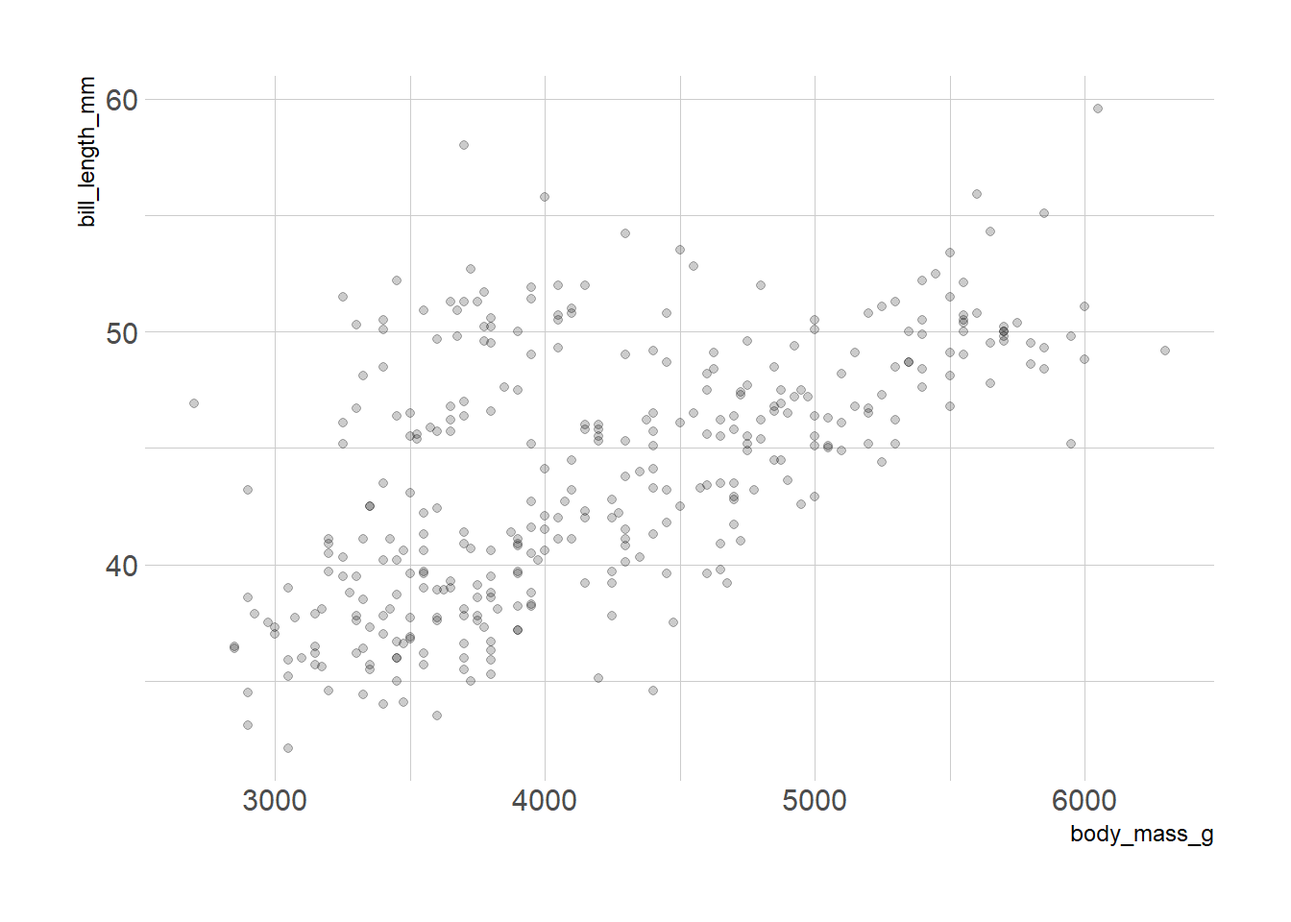
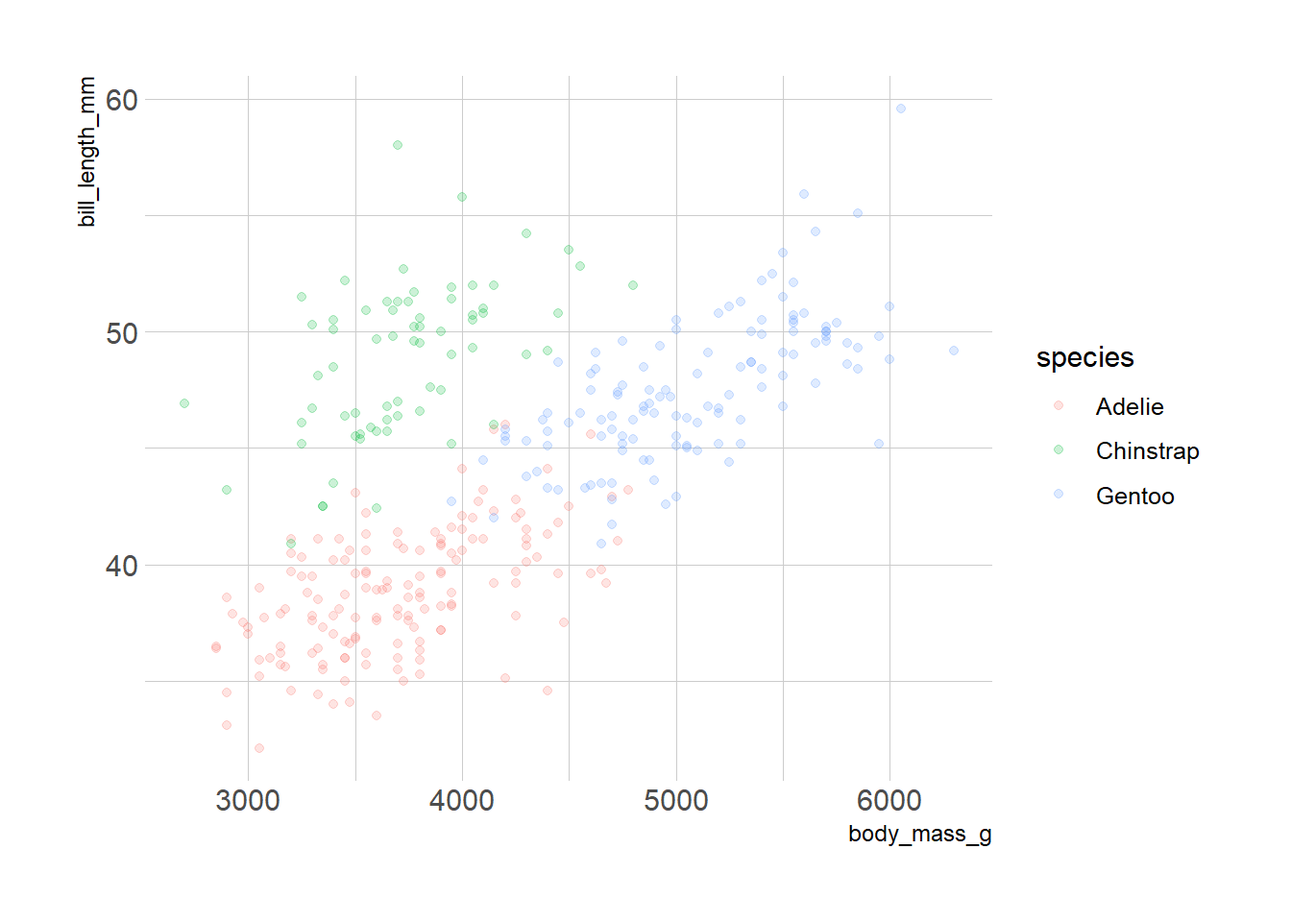
Tuesday edits for continuity, add time series fred

diff --git a/content/post/EDA/index.html b/content/post/EDA/index.html
@@ -1,11 +1,8 @@
 ---
 date: "2021-01-29"
 diagram: true
-# Featured image
-# To use, add an image named `featured.jpg/png` to your page's folder.
-# Focal points: Smart, Center, TopLeft, Top, TopRight, Left, Right, BottomLeft, Bottom, BottomRight.
 image: 
-  caption: ''
+  caption: 'by Allison Horst'
   focal_point: "TopRight"
   preview_only: false
 title: 'Exploratory Data Analysis'
@@ -22,13 +19,13 @@ draft: false
 <script src="{{< blogdown/postref >}}index_files/header-attrs/header-attrs.js"></script>
 
 
-<p>In many cases, the most beneficial near-term analytics projects do not involve Artificial Intelligence. The financial return on analytics comes from insights delivered back to the organization through Exploratory Data Analysis, or EDA.</p>
-<p>Professionals who focus on decision science and analytics, that is, people that use data to provide ideas and ground truth to the business, must be able to articulate what the EDA process is and what the standards are for the process. Analysts should be the best people available to find meaning in the data.</p>
-<p>Crafting an analysis that can take a vast amount of privileged company data and convert it into a concise result that clarifies the matter at hand is often difficult and may be practically an art. The act of figuring out what is meaningfully mathematically, what the business cares about, and how to bridge the gap between the two is not something that most people will know how to do naturally.</p>
-<p>This post will be a description of the major elements of Exploratory Data Analysis.</p>
+<p>More often than not, the most beneficial near-term analytics projects do not involve any Artificial Intelligence. The tangible financial return on analytics comes from insights delivered back to the organization via Exploratory Data Analysis, or EDA.</p>
+<p>Analytics professionals who focus on decision science, that is, people that use data to provide ground truth to the business, must be able to articulate what the EDA process is and what the standards are for the process. Analysts should be the best people available to find meaning in the data.</p>
+<p>Crafting an analysis that takes a vast amount of privileged company data and converts it into a concise result could be considered an art. The act of figuring out what is meaningful mathematically, what the business cares about, and how to bridge the gap between the two is not something that most people will know how to do naturally.</p>
+<p>This post will be a short outline of the major elements of Exploratory Data Analysis. I welcome your feedback, and especially from those that have extraordinary analysts on their teams.</p>
 <div id="what-makes-a-good-analysis" class="section level1">
 <h1>What makes a good analysis?</h1>
-<p>According to <a href="https://www.manning.com/books/build-a-career-in-data-science">Build a Career in Data Science</a>:</p>
+<p>According to the 2020 book <a href="https://www.manning.com/books/build-a-career-in-data-science">Build a Career in Data Science</a>:</p>
 <ul>
 <li><p><em>It answers the question</em>. An analysis starts with someone asking a question, and it must provide an answer to that question.</p></li>
 <li><p><em>It is made quickly</em>. Businesses have deadlines. If the analysis takes too long to create, the decision will be made without the analysis.</p></li>
@@ -39,18 +36,18 @@ draft: false
 <p>Ultimately, a good analysis is simply the work product that helps non-analysts do their own jobs.</p>
 <div id="the-analysis-plan" class="section level2">
 <h2>The analysis plan</h2>
-<p>Knowing whether the data that could plausibly answer the question is available is <em>really</em> important. An analysis plan should consist of actionable tasks that drill down into the dimensions of the business question and how they should be addressed. It should be shared with the team manager and the client to secure an agreed-upon foundation for the work. For example, importing and cleaning data will require files and security access be made available.</p>
-<p>So, where can data-driven analytics fail?</p>
+<p>Knowing whether the data that could plausibly answer the question is available is <em>really</em> important. An analysis plan should consist of actionable tasks that drill down into the dimensions of the business question and how they should be addressed. It should be shared with both the team manager and the client to secure an agreed-upon foundation for the work. For example, importing and cleaning data will require that files and security access be made available. Given the size and the nature of the dataset, cloud resources may need to be provisioned.</p>
+<p>Where can data-driven analytics plan fail?</p>
 <blockquote>
 <p>By far, the most common mistake is to solve the problems that nobody has.</p>
 </blockquote>
-<p>Every EDA plan first steps through identifying potential issues that require remedial work before moving forward. This could be characterized as data cleaning or data checking. The pattern, then:</p>
+<p>Every EDA plan steps through identifying potential issues that require remedial work before moving forward. This could be characterized as data cleaning or data checking. Generally speaking, the pattern here is:</p>
 <ol style="list-style-type: decimal">
 <li><p>Generate questions about the data.</p></li>
 <li><p>Search for answers by visualizing, transforming, and modeling the data.</p></li>
 <li><p>Use what is learned to refine the questions and generate new questions.</p></li>
 </ol>
-<p>Bear in mind that EDA is not a single linear process with a strict set of rules. During the initial phases of EDA every idea will be investigated. Some of these ideas will pan out, and most will be dead ends. As exploration continues, the analyst will discover a few particularly productive areas to write up and communicate.</p>
+<p>Bear in mind that EDA is never a single linear process with a strict set of rules. During the initial phases of EDA every idea will be investigated. Some of these ideas will pan out, and most will be dead ends. As exploration continues, the analyst will discover a few particularly productive areas to write up and communicate.</p>
 <blockquote>
 <p>“Far better an approximate answer to the right question, which is often
 vague, than an exact answer to the wrong question, which can always be made
@@ -62,25 +59,32 @@ precise.” — John Tukey</p>
 <blockquote>
 <p>This was the tendency of jobs to be adapted to tools, rather than adapting tools to jobs. <a href="https://en.wikipedia.org/wiki/Silvan_Tomkins">Silvan Tomkins</a>, Computer Simulation of Personality: Frontier of Psychological Theory (1963)</p>
 </blockquote>
-<p>In both Python and R, data analysis tooling has coalesced around the <strong>data frame</strong> object, which is a huge productivity boost for the analyst. There is a risk here that EDA, because of the ease and uniformity of use of the tooling, becomes an exercise in applying boilerplate code. This creates a creativity trap where the analysis can become narrowed by the range of uses supported by a particular set of tools. While the dashboard tools are powerful when they are genuinely supporting the analyst to develop understanding of the data narrative, it’s important to avoid becoming too reliant on any single template.</p>
-<p>In my experience it’s good to have familiarity with tooling at several levels of abstraction. High level interfaces to auto-generate certain types of exploratory analysis are handy when they provide just what is needed. However, the majority of EDA is more creative in nature and becoming expert with data manipulation tools like dplyr and pandas in combination with graphical tools like matplotlib and ggplot2 provides a finer control and fewer restrictions on creativity.</p>
+<p>Data analysis tooling has coalesced around the <strong>data frame</strong> object, which is a huge productivity boost for the analyst. In some settings we talk about self-service, or even “citizen” data scientists that have access to the prepared data frame structures. There is a risk here that EDA, because of the ease and uniformity of use of the tooling, becomes an exercise in applying boilerplate code. This creates a creativity trap where the analysis can be constrained by the range of uses supported by a particular set of tools. While reporting tools are powerful when they genuinely support the analyst in developing an understanding of the data narrative, it’s important to avoid becoming too reliant on any single tool.</p>
+<p>In my experience it’s good to have familiarity with tooling at several levels of abstraction, whether python or R, Tableau or PowerBI. High level interfaces to auto-generate certain types of exploratory analysis are handy when they provide just what is needed. However, the majority of EDA is more creative in nature and becoming expert with data manipulation tools like dplyr and pandas in combination with graphical tools like matplotlib and ggplot2 provides a finer control and fewer restrictions on creativity.</p>
 <p>The main point here is that exploratory data analysis can’t and shouldn’t be automated, because it is a process to support a human’s learning, and to do that well there are few shortcuts.</p>
 <hr />
-<p>At this point, all of the technical tools of EDA will be needed: visualization, transformation, and modeling. For the purposes of a the blog post, we will organize the activities under five themes:</p>
+<p>At this point, all of the technical tools of EDA will be needed: visualization, transformation, and modeling. For the purposes of a the blog post, we will organize activities under five themes:</p>
 <ul>
 <li><p>Feature names and field types</p></li>
 <li><p>Missingness</p></li>
 <li><p>Variance and covariance</p></li>
 <li><p>Patterns and modeling feature inferences</p></li>
 </ul>
-<p>For illustrative purposes, let’s load a few libraries with plotting functions and sample penguin data.</p>
+<p>For illustrative purposes, let’s load a few libraries with plotting functions and a sample penguin dataset.</p>
+<pre class="r"><code>suppressPackageStartupMessages({
+library(tidyverse) # tidy data manipulation, including dplyr and ggplot
+library(systemfonts) # register Windows Fonts
+library(palmerpenguins) # penguin sample dataset
+})
+
+theme_set(hrbrthemes::theme_ipsum())   # Set a ggplot color, font theme</code></pre>
 </div>
 <div id="feature-names-and-field-types" class="section level3">
 <h3>Feature names and field types</h3>
-<p>I am often handed sample data in Excel or a .csv text file at the first engagement of a project. In my experience, always, always check for the correctness of the column types. Expect to find integers incorrectly encoded as strings, dates encoded as strings, timestamps in odd time zones and other issues. Sometimes a column that should be numeric has the occasional string entry. Perhaps the query did not specify the correct schema when reading the database, or the data are encoded in an ambiguous way that results in an inappropriate type, or maybe some earlier data manipulation caused a problem.</p>
+<p>Analysts are often handed sample data in Excel or a .csv text file at the first engagement of a project. In my experience, always, always check for the correctness of the column types. Expect to find integers incorrectly coded as strings, dates coded as strings, timestamps in odd time zones, non-English character sets, and other issues. Sometimes a column that should be numeric has the occasional string entry. Perhaps the query did not specify the correct schema when reading the database, or the data are encoded in an ambiguous way that results in an inappropriate type, or maybe some earlier data manipulation caused a problem.</p>
 <p>Before going further, let’s define some terms:</p>
 <ul>
-<li><p>A <strong>variable</strong> is a quantity, quality, or property that you can measure. Often shown in columns, these are also known as features.</p></li>
+<li><p>A <strong>variable</strong> is a quantity, quality, or property that you can measure. Often shown in columns, these are also known in data science as features.</p></li>
 <li><p>A <strong>value</strong> is the state of a variable when you measure it. The value of a variable may change from measurement to measurement.</p></li>
 <li><p>An <strong>observation</strong> is a set of measurements made under similar conditions. You usually make all of the measurements in an observation at the same time and on the same object. An observation will contain several values, each associated with a different variable. We sometimes refer to an observation as an instance.</p></li>
 <li><p><strong>Tabular data</strong> is a set of values, each associated with a variable and an observation. Tabular data is <em>tidy</em> if each value is placed in its own “cell”, each variable in its own column, and each observation in its own row.</p></li>
@@ -88,7 +92,8 @@ precise.” — John Tukey</p>
 <li><p><strong>Sparsity and Density</strong> describe the degree to which data exists for the features in a dataset. For example, if 20 percent of the values in a dataset are missing, the dataset is said to be 20 percent sparse. Density is the complement of sparsity.</p></li>
 <li><p><strong>Resolution</strong> describes the grain or level of detail in the data. The more detailed the data, the finer (or higher) the resolution. Satellite imagery consists of pixels on a grid spaced at some 3 meters or so on the ground. Aerial imagery is has somewhat higher resolution.</p></li>
 </ul>
-<p>Descriptive statistics are useful in data exploration and understanding. They involve the use of measures to describe the characteristics of features. For example, categorical features are described in the frequencies, or counts, of their occurance in the dataset. For continuous data, measures like mean and median are used.</p>
+<p>Descriptive statistics are useful in data exploration and understanding. They involve the use of measures to describe some of the characteristics of features. For example, categorical features are described in the frequencies, or counts, of their occurrence in the dataset. For continuous data, summary measures like mean and median are often useful.</p>
+<p>For the penguins dataset:</p>
 <pre class="r"><code>summary(penguins)</code></pre>
 <pre><code>##       species          island    bill_length_mm bill_depth_mm  flipper_length_mm
 ##  Adelie   :152   Biscoe   :168   Min.   :32.1   Min.   :13.1   Min.   :172      
@@ -109,21 +114,19 @@ precise.” — John Tukey</p>
 </div>
 <div id="missingness" class="section level3">
 <h3>Missingness</h3>
-<p>We must check the prevalence of missing values and their relationship with other features because many modeling methods do not handle missing values natively. There is a story about a marine mammal weights dataset where the missing values are those that exceeded the capacity of the scale. Remedies here might include dropping or transforming columns, imputing missing values as the median, or choosing an algorithm that handles missingness out of the box. As a worse case, it may be necessary to solicit more data.</p>
-<p>If you’ve encountered missing values in the dataset and simply want to move on to the rest of the analysis, there are two options.</p>
+<p>We must check the prevalence of missing values and their relationship with other features. There is a story about a marine mammal weights dataset where the missing values are those whales that exceeded the capacity of the scale. Remedies here might include dropping or transforming columns, imputing missing values as the median, or choosing an algorithm that handles missingness out of the box. As a worse case, it may be necessary to solicit more data.</p>
+<p>If you’ve encountered missing values in the dataset and want to quickly move on to the rest of the analysis, there are two options.</p>
 <ol style="list-style-type: decimal">
-<li>Drop the entire row with the missing values:</li>
-</ol>
+<li><p>Drop the entire row that has the missing values:</p>
 <pre class="r"><code>penguins2 &lt;- penguins %&gt;% 
-      filter(is.na(bill_length_mm))</code></pre>
-<ol style="list-style-type: decimal">
-<li>Replacing the missing values with an imputed value, like the median.</li>
-</ol>
+    filter(is.na(bill_length_mm))</code></pre></li>
+<li><p>Replace the missing values with an imputed value, like the median of the variable.</p>
 <pre class="r"><code>median_bill_length &lt;- median(penguins$bill_length_mm)
 
 penguins2 &lt;- penguins %&gt;% 
-      mutate(y = if_else(is.na(bill_length_mm), median_bill_length, bill_length_mm))</code></pre>
-<p>We should make every effort to understand what makes observations with missing values different to observations with recorded values. For example, in <code>nycflights13::flights</code>, missing values in the <code>dep_time</code> variable indicate that the flight was cancelled. It is important to compare the scheduled departure times for cancelled and non-cancelled times. You can do this by making a new variable with <code>is.na()</code>.</p>
+    mutate(bill_length_mm = if_else(is.na(bill_length_mm), median_bill_length, bill_length_mm))</code></pre></li>
+</ol>
+<p>We should make every effort to understand what makes observations with missing values different versus observations with recorded values. For example, in the sample dataset <code>nycflights13::flights</code>, missing values in the <code>dep_time</code> variable indicate that the flight was cancelled. It is important to compare the scheduled departure times for cancelled and non-cancelled times.</p>
 <pre class="r"><code>nycflights13::flights %&gt;% 
   mutate(
     cancelled = is.na(dep_time),
@@ -134,16 +137,16 @@ penguins2 &lt;- penguins %&gt;%
   ggplot(mapping = aes(sched_dep_time)) + 
     geom_freqpoly(mapping = aes(colour = cancelled), binwidth = 1/4)</code></pre>
 <p><img src="{{< blogdown/postref >}}index_files/figure-html/unnamed-chunk-4-1.png" width="672" /></p>
-<p>Note that this plot really is not great because there are many more non-canceled flights than canceled flights.</p>
+<p>This example is also a good example of an unbalanced dataset, where the class of a variable of interest may be overwhelmed by the other classes. There are analytics techniques for synthesizing upsampling, or resampling, to prepare the data to better understand the underlying patterns.</p>
 </div>
 <div id="variance-and-covariance" class="section level3">
 <h3>Variance and covariance</h3>
 <p><strong>Variation</strong> is the tendency of the values of a single variable to change from measurement to measurement. Variation is easily observed in real life; if you measure any continuous variable twice, you will get two different results. This is true even when measuring quantities that are constant, like the speed of light. Each measurement will include a small amount of error that varies from measurement to measurement. Every variable has its own pattern of variation. The best way to understand that pattern is to visualize the distribution of the variable’s values.</p>
-<p>The means of visualizing the distribution of a variable will depend on whether the variable is categorical or continuous. A variable is <strong>categorical</strong> if it can only take one of a small set of values. Categorical variables are usually saved as factors or character vectors. To examine the distribution of counts of a categorical variable, use a bar chart:</p>
+<p>The means of visualizing the distribution of a variable will depend on whether the variable is categorical or continuous. A variable is <strong>categorical</strong> if it can only take one of a small set of values. To examine the distribution of counts of a categorical variable, use a bar chart:</p>
 <pre class="r"><code>ggplot(data = penguins) +
   geom_bar(mapping = aes(x = island))</code></pre>
 <p><img src="{{< blogdown/postref >}}index_files/figure-html/unnamed-chunk-5-1.png" width="672" /></p>
-<p>The height of the bars displays how many observations occurred with each x value. A table that shows the same information:</p>
+<p>The height of the bars displays how many observations occurred with each value. A table that diplays the same information:</p>
 <pre class="r"><code>penguins %&gt;% 
   count(island)</code></pre>
 <pre><code>## # A tibble: 3 x 2
@@ -186,7 +189,7 @@ penguins2 &lt;- penguins %&gt;%
 ggplot(data = smaller, mapping = aes(x = bill_length_mm)) +
   geom_histogram(binwidth = 0.1)</code></pre>
 <p><img src="{{< blogdown/postref >}}index_files/figure-html/unnamed-chunk-9-1.png" width="672" /></p>
-<p>If you wish to overlay multiple histograms in the same plot, we can use <code>geom_freqpoly()</code> instead of <code>geom_histogram()</code>. <code>geom_freqpoly()</code> performs the same calculation as <code>geom_histogram()</code>, but instead of displaying the counts with bars, is uses lines instead. It’s much easier to understand overlapping lines than bars.</p>
+<p>If you wish to overlay multiple histograms in the same plot, we can use <code>geom_freqpoly()</code> instead of <code>geom_histogram()</code>. <code>geom_freqpoly()</code> performs the same calculation as <code>geom_histogram()</code>, but instead of displaying the counts with bars, it uses lines instead. It’s often easier to understand overlapping lines than bars.</p>
 <pre class="r"><code>ggplot(data = penguins, mapping = aes(x = bill_length_mm, colour = species)) +
   geom_freqpoly(binwidth = 2)</code></pre>
 <p><img src="{{< blogdown/postref >}}index_files/figure-html/unnamed-chunk-10-1.png" width="672" /></p>
@@ -217,30 +220,35 @@ ggplot(data = smaller, mapping = aes(x = bill_length_mm)) +
 <p>If variation describes the behavior <em>within</em> a variable, covariation describes the behavior <em>between</em> variables. <strong>Covariation</strong> is the tendency for the values of two or more variables to vary together in a related way. The best way to spot covariation is to visualise the relationship between two or more variables. How you do that should again depend on the type of variables involved.</p>
 <p>It’s common to want to explore the distribution of a continuous variable broken down by a categorical variable, as in the previous frequency polygon. The default appearance of <code>geom_freqpoly()</code> is not that useful for that sort of comparison because the height is given by the count. To make the comparison easier we need to swap what is displayed on the y-axis. Instead of displaying count, we’ll display <strong>density</strong>, which is the count standardised so that the area under each frequency polygon is one.</p>
 <pre class="r"><code>ggplot(data = penguins, mapping = aes(x = body_mass_g, y = ..density..)) + 
-  geom_freqpoly(mapping = aes(colour = species), binwidth = 50)</code></pre>
+  geom_freqpoly(mapping = aes(colour = species), binwidth = 100)</code></pre>
 <p><img src="{{< blogdown/postref >}}index_files/figure-html/unnamed-chunk-13-1.png" width="672" /></p>
-<p>Frequency polygons are a little hard to interpret - there’s a lot going on in this plot.</p>
-<p>Another alternative to display the distribution of a continuous variable broken down by a categorical variable is the boxplot. A <strong>boxplot</strong> is a type of visual shorthand for a distribution of values that is popular among statisticians. Each boxplot consists of:</p>
+<p>Frequency polygons are a little hard to interpret. There’s a lot going on in this plot.</p>
+<p>An alternative: a <strong>boxplot</strong> is a type of visual shorthand for a distribution of values that is popular among statisticians. Each boxplot consists of:</p>
 <ul>
 <li><p>A box that stretches from the 25th percentile of the distribution to the 75th percentile, a distance known as the interquartile range (IQR). In the middle of the box is a line that displays the median, i.e. 50th percentile.</p></li>
 <li><p>Visual points that display observations that fall more than 1.5 times the IQR from either edge of the box. These outlying points are unusual so are plotted individually.</p></li>
 <li><p>A line (or whisker) that extends from each end of the box and goes to the farthest non-outlier point in the distribution.</p></li>
 </ul>
-<p>Let’s take a look at the distribution of price by cut using <code>geom_boxplot()</code>:</p>
+<p>Let’s take a look at the distribution of body mass by species using <code>geom_boxplot()</code>:</p>
 <pre class="r"><code>ggplot(data = penguins, mapping = aes(x = species, y = body_mass_g       )) +
   geom_boxplot()</code></pre>
 <p><img src="{{< blogdown/postref >}}index_files/figure-html/unnamed-chunk-14-1.png" width="672" /></p>
-<p>We see much less information about the distribution, but the boxplots are much more compact so we can more easily compare them (and fit more on one plot).</p>
-<p>If you have long variable names, <code>geom_boxplot()</code> will work better if flipped by 90°.</p>
-<pre class="r"><code>ggplot(data = penguins) +
-  geom_boxplot(mapping = aes(y = reorder(species, body_mass_g, FUN = median), x = body_mass_g)) </code></pre>
+<p>We see less information about the distribution, but the boxplots are much more compact so we can more easily compare them (and fit more on one plot).</p>
+<p>If you have long variable names, <code>geom_boxplot()</code> will work better if flipped by 90°. In this case, we will add the original data points, with “jitter”, and color for each species.</p>
+<pre class="r"><code>ggplot(data = penguins, 
+       mapping = aes(y = reorder(species, body_mass_g, FUN = median), 
+                     x = body_mass_g,
+                     color = species)) +
+  geom_boxplot(show.legend = FALSE) +
+  geom_point(alpha = 0.2, position = &quot;jitter&quot;, show.legend = FALSE) +
+  labs(y = NULL)</code></pre>
 <p><img src="{{< blogdown/postref >}}index_files/figure-html/unnamed-chunk-15-1.png" width="672" /></p>
-<p>To visualise the covariation between categorical variables, we will need to count the number of observations for each combination. One way to do that is to rely on the built-in <code>geom_count()</code>:</p>
+<p>To visualize the covariation between categorical variables, we will need to count the number of observations for each combination. One way to do that is to use <code>geom_count()</code>:</p>
 <pre class="r"><code>ggplot(data = penguins) +
   geom_count(mapping = aes(x = island, y = species))</code></pre>
 <p><img src="{{< blogdown/postref >}}index_files/figure-html/unnamed-chunk-16-1.png" width="672" /></p>
 <p>The size of each circle in the plot displays how many observations occurred at each combination of values. Covariation will appear as a strong correlation between specific x values and specific y values.</p>
-<p>Another approach is to compute the count with dplyr:</p>
+<p>Another approach is to calculate the counts:</p>
 <pre class="r"><code>penguins %&gt;% 
   count(species, island)</code></pre>
 <pre><code>## # A tibble: 5 x 3
@@ -257,16 +265,17 @@ ggplot(data = smaller, mapping = aes(x = bill_length_mm)) +
   ggplot(mapping = aes(x = species, y = island)) +
     geom_tile(mapping = aes(fill = n))</code></pre>
 <p><img src="{{< blogdown/postref >}}index_files/figure-html/unnamed-chunk-18-1.png" width="672" /></p>
-<p>For larger plots, try the d3heatmap or heatmaply packages, which create interactive plots.</p>
-<p>You’ve already seen one great way to visualise the covariation between two continuous variables: draw a scatterplot with <code>geom_point()</code>. You can see covariation as a pattern in the points. For example, you can see an relationship between the body mass and bill length of these penguins.</p>
+<p>You’ve already seen one great way to visualise the covariation between two continuous variables: draw a scatterplot with <code>geom_point()</code>. You can see covariation as a pattern in the points. For example, you can roughly see an relationship between the body mass and bill length of the penguins:</p>
 <pre class="r"><code>ggplot(data = penguins) +
   geom_point(mapping = aes(x = body_mass_g, y = bill_length_mm    ))</code></pre>
 <p><img src="{{< blogdown/postref >}}index_files/figure-html/unnamed-chunk-19-1.png" width="672" /></p>
-<p>Scatterplots become less useful as the size of the dataset grows, because points begin to overplot, and pile up into areas of uniform black. One way to fix the problem is to add the <code>alpha</code> aesthetic to add transparency.</p>
+<p>Scatterplots become less useful as the size of the dataset grows, because points begin to overplot, and pile up into areas of uniform black. One way to fix the problem is to add the <code>alpha</code> aesthetic to add transparency. Again, we will add color as species. Can you begin to see useful patterns here?</p>
 <pre class="r"><code>ggplot(data = penguins) + 
-  geom_point(mapping = aes(x = body_mass_g, y = bill_length_mm), alpha = 0.2)</code></pre>
+  geom_point(mapping = aes(x = body_mass_g, 
+                           y = bill_length_mm, 
+                           color = species), alpha = 0.2)</code></pre>
 <p><img src="{{< blogdown/postref >}}index_files/figure-html/unnamed-chunk-20-1.png" width="672" /></p>
-<p>Another solution is to use bin. <code>geom_bin2d()</code> and <code>geom_hex()</code> divide the coordinate plane into 2d bins and then use a fill color to display how many points fall into each bin. <code>geom_bin2d()</code> creates rectangular bins. <code>geom_hex()</code> creates hexagonal bins. You will need to install the hexbin package to use <code>geom_hex()</code>.</p>
+<p>Another solution is to use bin. <code>geom_bin2d()</code> divides the coordinate plane into 2d bins and then uses a fill color to display how many points fall into each bin. <code>geom_bin2d()</code> creates rectangular bins. Another alternative, <code>geom_hex()</code>, creates hexagonal bins.</p>
 <pre class="r"><code>ggplot(data = penguins) +
   geom_bin2d(mapping = aes(x = body_mass_g, y = bill_length_mm))</code></pre>
 <p><img src="{{< blogdown/postref >}}index_files/figure-html/unnamed-chunk-21-1.png" width="50%" /></p>
@@ -295,7 +304,7 @@ ggplot(data = smaller, mapping = aes(x = bill_length_mm)) +
   geom_point(mapping = aes(x = eruptions, y = waiting))</code></pre>
 <p><img src="{{< blogdown/postref >}}index_files/figure-html/unnamed-chunk-24-1.png" width="672" /></p>
 <p>Patterns provide one of the most useful tools for data scientists because they reveal covariation. If you think of variation as a phenomenon that creates uncertainty, covariation is a phenomenon that reduces it. If two variables covary, you can use the values of one variable to make better predictions about the values of the second. If the covariation is due to a causal relationship (a special case), then the value of one variable can be used to control the value of the second.</p>
-<p>Machine learning models can provide additional insight, via inference.</p>
+<p>Machine learning models can provide additional insight, via inference. In this case, we will fit a simple linear model for penguin body mass against the bill length and the species.</p>
 <pre class="r"><code>mod &lt;- lm(body_mass_g ~ bill_length_mm + species, data = penguins)
 
 broom::tidy(mod)</code></pre>
@@ -306,9 +315,9 @@ broom::tidy(mod)</code></pre>
 ## 2 bill_length_mm       91.4      6.89    13.3   1.16e-32
 ## 3 speciesChinstrap   -886.      88.3    -10.0   6.37e-21
 ## 4 speciesGentoo       579.      75.4      7.68  1.76e-13</code></pre>
-<p>In this simple linear case, each additional mm of bill length is related to a 91 gram increase in body mass, for a penguin of the same species. More complex techniques can be used to discover more complex interactions.</p>
-<p><strong>Survival</strong> analysis modeling is one of the oldest subfields of statistics. Today survival analysis models are important in Engineering, Insurance, Marketing, Medicine, Econometrics, and many other application areas.</p>
-<p>A simpler characterization might be time-to-event analysis. These are use cases where we are concerned with the time it takes for an event to occur after an exposure. As an example, an exposure might be the date of a medical diagnosis. Or it could be the moment of childbirth. Or the date of delivery of a new tractor to a customer. Survival analysis data is aligned for all participants to zero at each participant’s exposure time. The event of interest could be death or the failure of a component of the tractor. Time-to-event data always consist of the distinct exposure start and distinct event end for each study participant.</p>
+<p>In this case, each additional mm of bill length is related to a 91.44 gram increase in body mass, for a penguin of the same species. More complex techniques can be used to discover more complex patterns and interactions.</p>
+<p>Another modeling tool, <strong>Survival</strong> analysis is one of the oldest subfields of statistics. Today survival analysis models are important in Engineering, Insurance, Marketing, Medicine, Econometrics, and many other application areas.</p>
+<p>A simpler characterization of Survival might be time-to-event analysis. These are use cases where we are concerned with the time it takes for an event to occur after an exposure. As an example, an exposure might be the date of a medical diagnosis. Or it could be the moment of childbirth. Or the date of delivery of a new tractor to a customer. Survival analysis data is aligned for all participants to zero at each participant’s exposure time. The event of interest could be death or the failure of a component of the tractor. Time-to-event data always consist of the distinct exposure start and distinct event end for each study participant.</p>
 <p>Most survival datasets have some censoring. A censored study subject may be censored due to:</p>
 <ul>
 <li><p>Loss to follow-up (i.e. undocumented, not recorded)</p></li>
@@ -316,9 +325,9 @@ broom::tidy(mod)</code></pre>
 <li><p>No event of interest by the end of the fixed study period</p></li>
 </ul>
 <p>Censored subjects still provide information so must be appropriately included in the analysis. Ignoring censoring leads to an overestimate of the overall survival probability, because the censored subjects only contribute information for part of the follow-up time, and then fall out of the risk set, thus pulling down the cumulative probability of survival.</p>
-<p>In industry it is common to track component warranty claims and cost on machines sold. Warranty datasets are heavily censored because the study period rarely aligns with the warranty period for each machine delivered. The study time period and fleet population membership must be carefully considered and explicitly defined. In most cases, exposure is aligned to zero at the warranty start date.</p>
-<p>We need special methods for time to event data, first, because duration times are always positive. Traditional regression models make a number of assumptions for independence and normality that are no longer valid in this space. There are distributions, like Weibull, that better represent the problem space.</p>
-<p><strong>Time Series</strong> modeling, sometimes also called forecasting, seeks to leverage the underlying patterns in data with a timestamp feature to make statements about causal inference or to predict the future. Time is a challenging feature to work with, in that the variables are not observations taken at once. Further, they are not independent, and may be auto-correlated at intervals, or lags.</p>
+<p>In industry it is common to track component warranty claims and cost on machines sold. Warranty datasets are heavily censored because the study period rarely aligns with the warranty period for each machine delivered in a fleet. The study time period and fleet population membership must be carefully considered and explicitly defined. In most cases, exposure is aligned to zero at the warranty start date.</p>
+<p>We need special methods in survival for time to event data, first, because duration times are always positive. Traditional regression models make a number of assumptions for independence and normality that are no longer valid in this domain. There are distributions, like Weibull, that better represent the problem space.</p>
+<p><strong>Time Series</strong> modeling, sometimes also called forecasting, seeks to leverage the underlying patterns in data with a timestamp feature to make statements about causal inference or to predict the future. Time is a challenging feature to work with, in that the variables are not observations taken at once. Further, they are almost never independent, and will often be auto-correlated at intervals, or lags.</p>
 <p><strong>Geospatial</strong> and geospatial time-series analytics combine all of the challenges above and warrant their own blog posts.</p>
 </div>
 </div>
